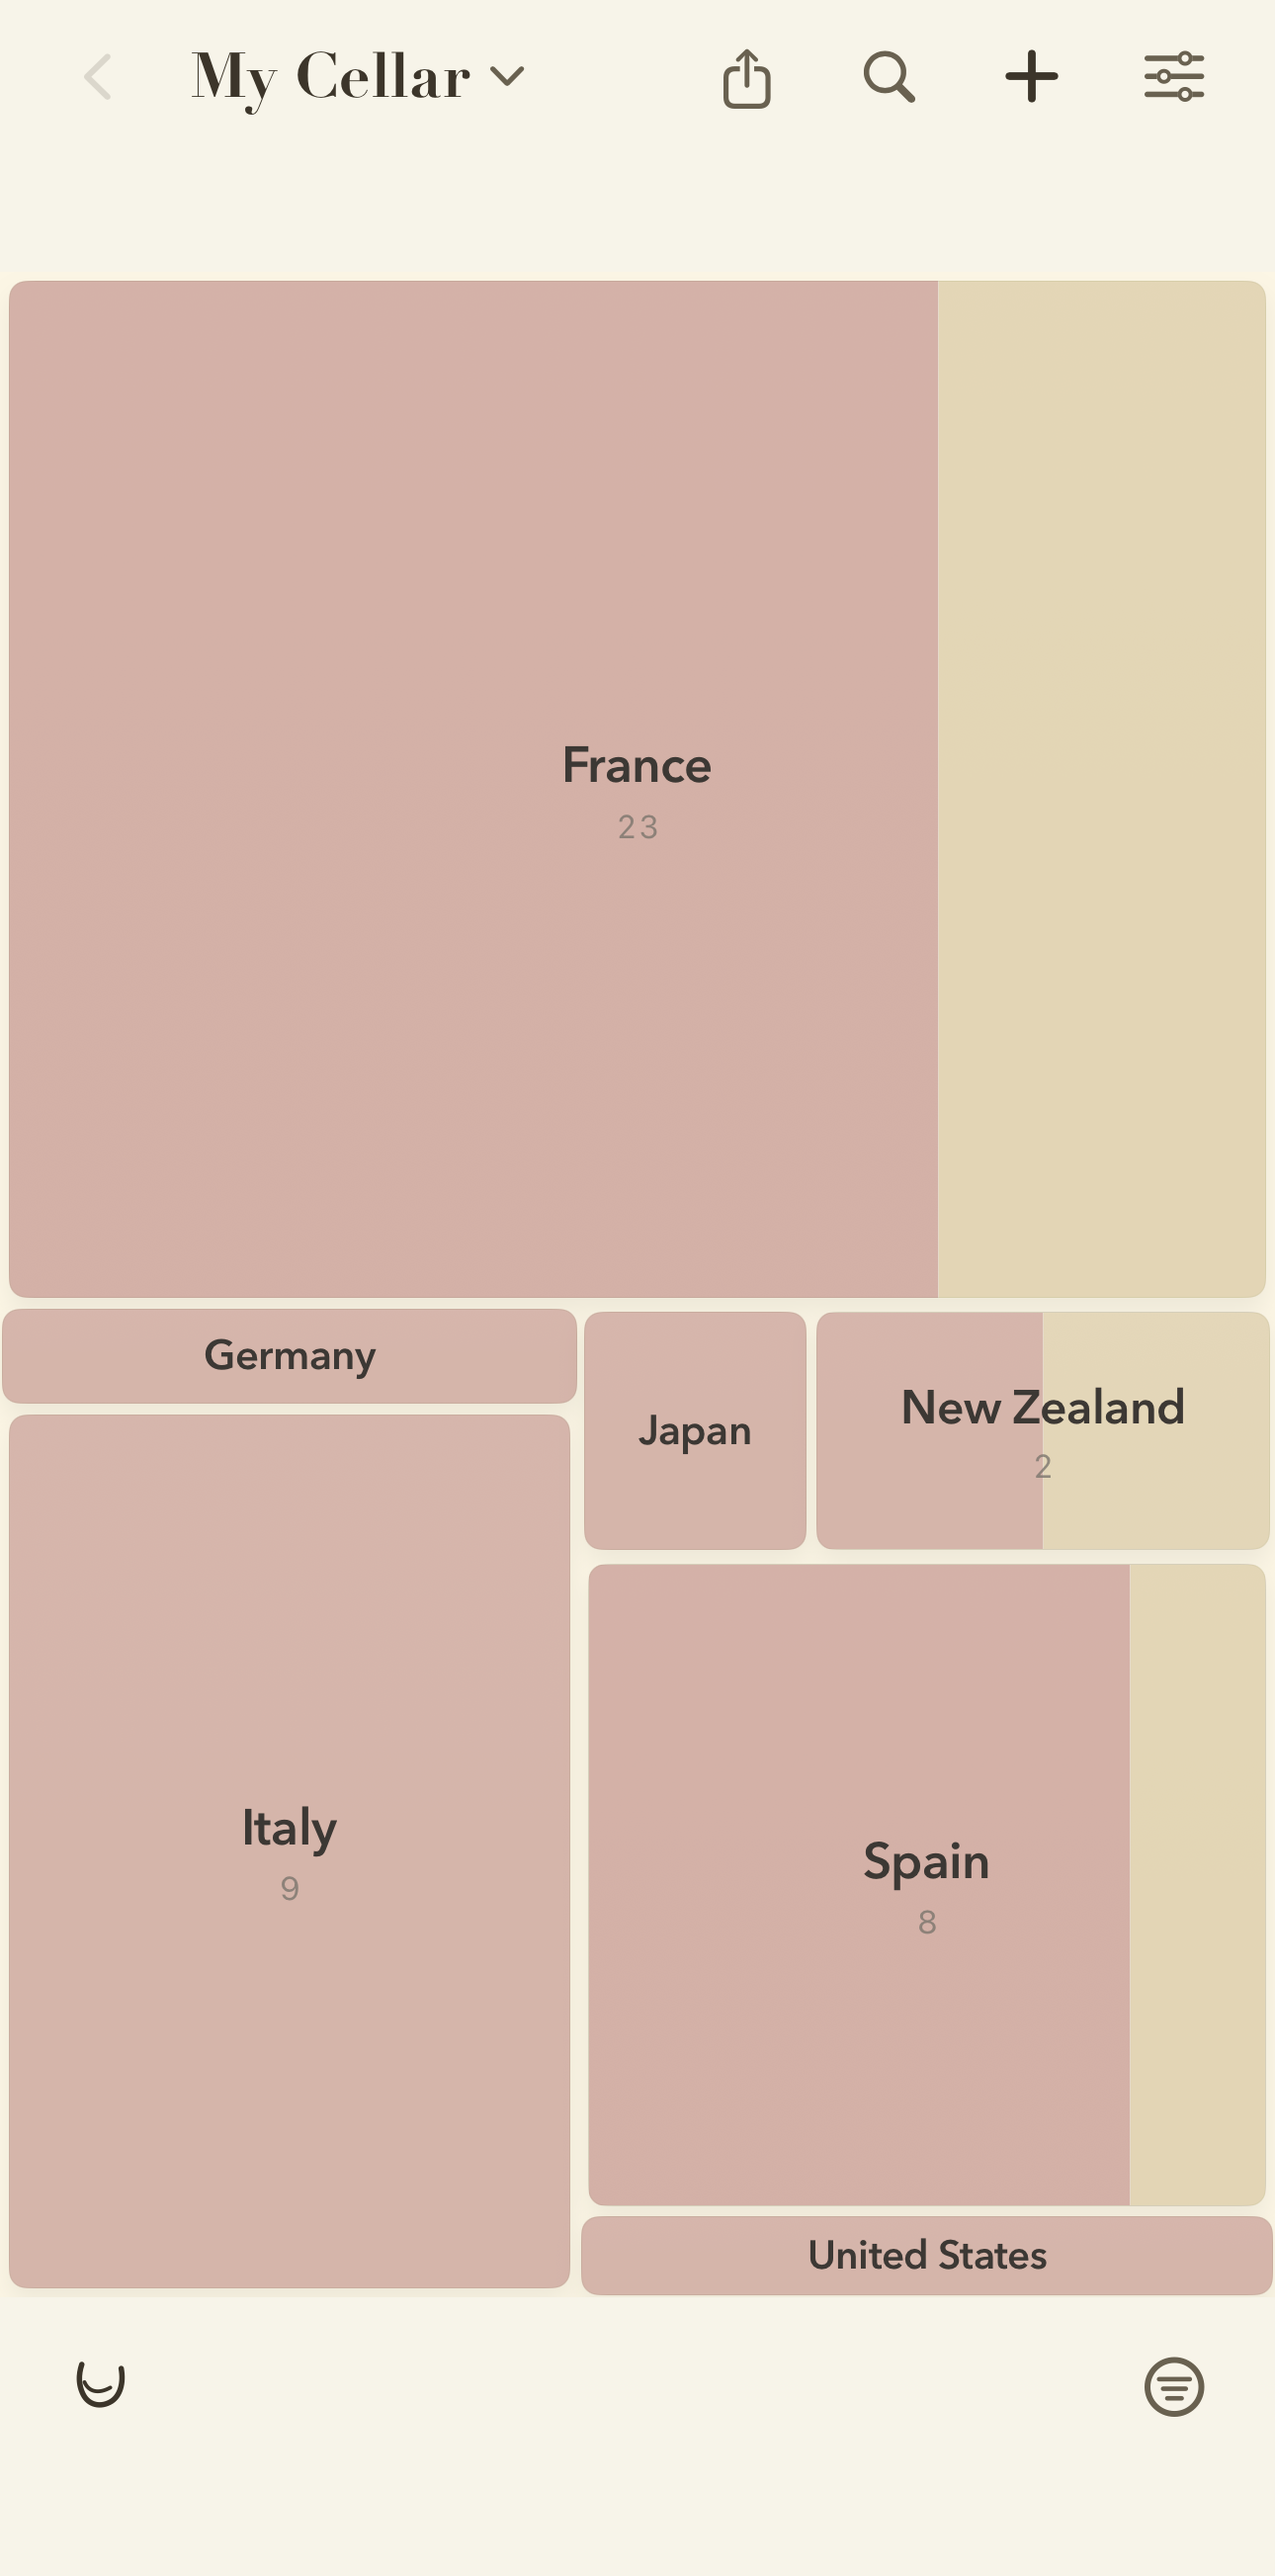
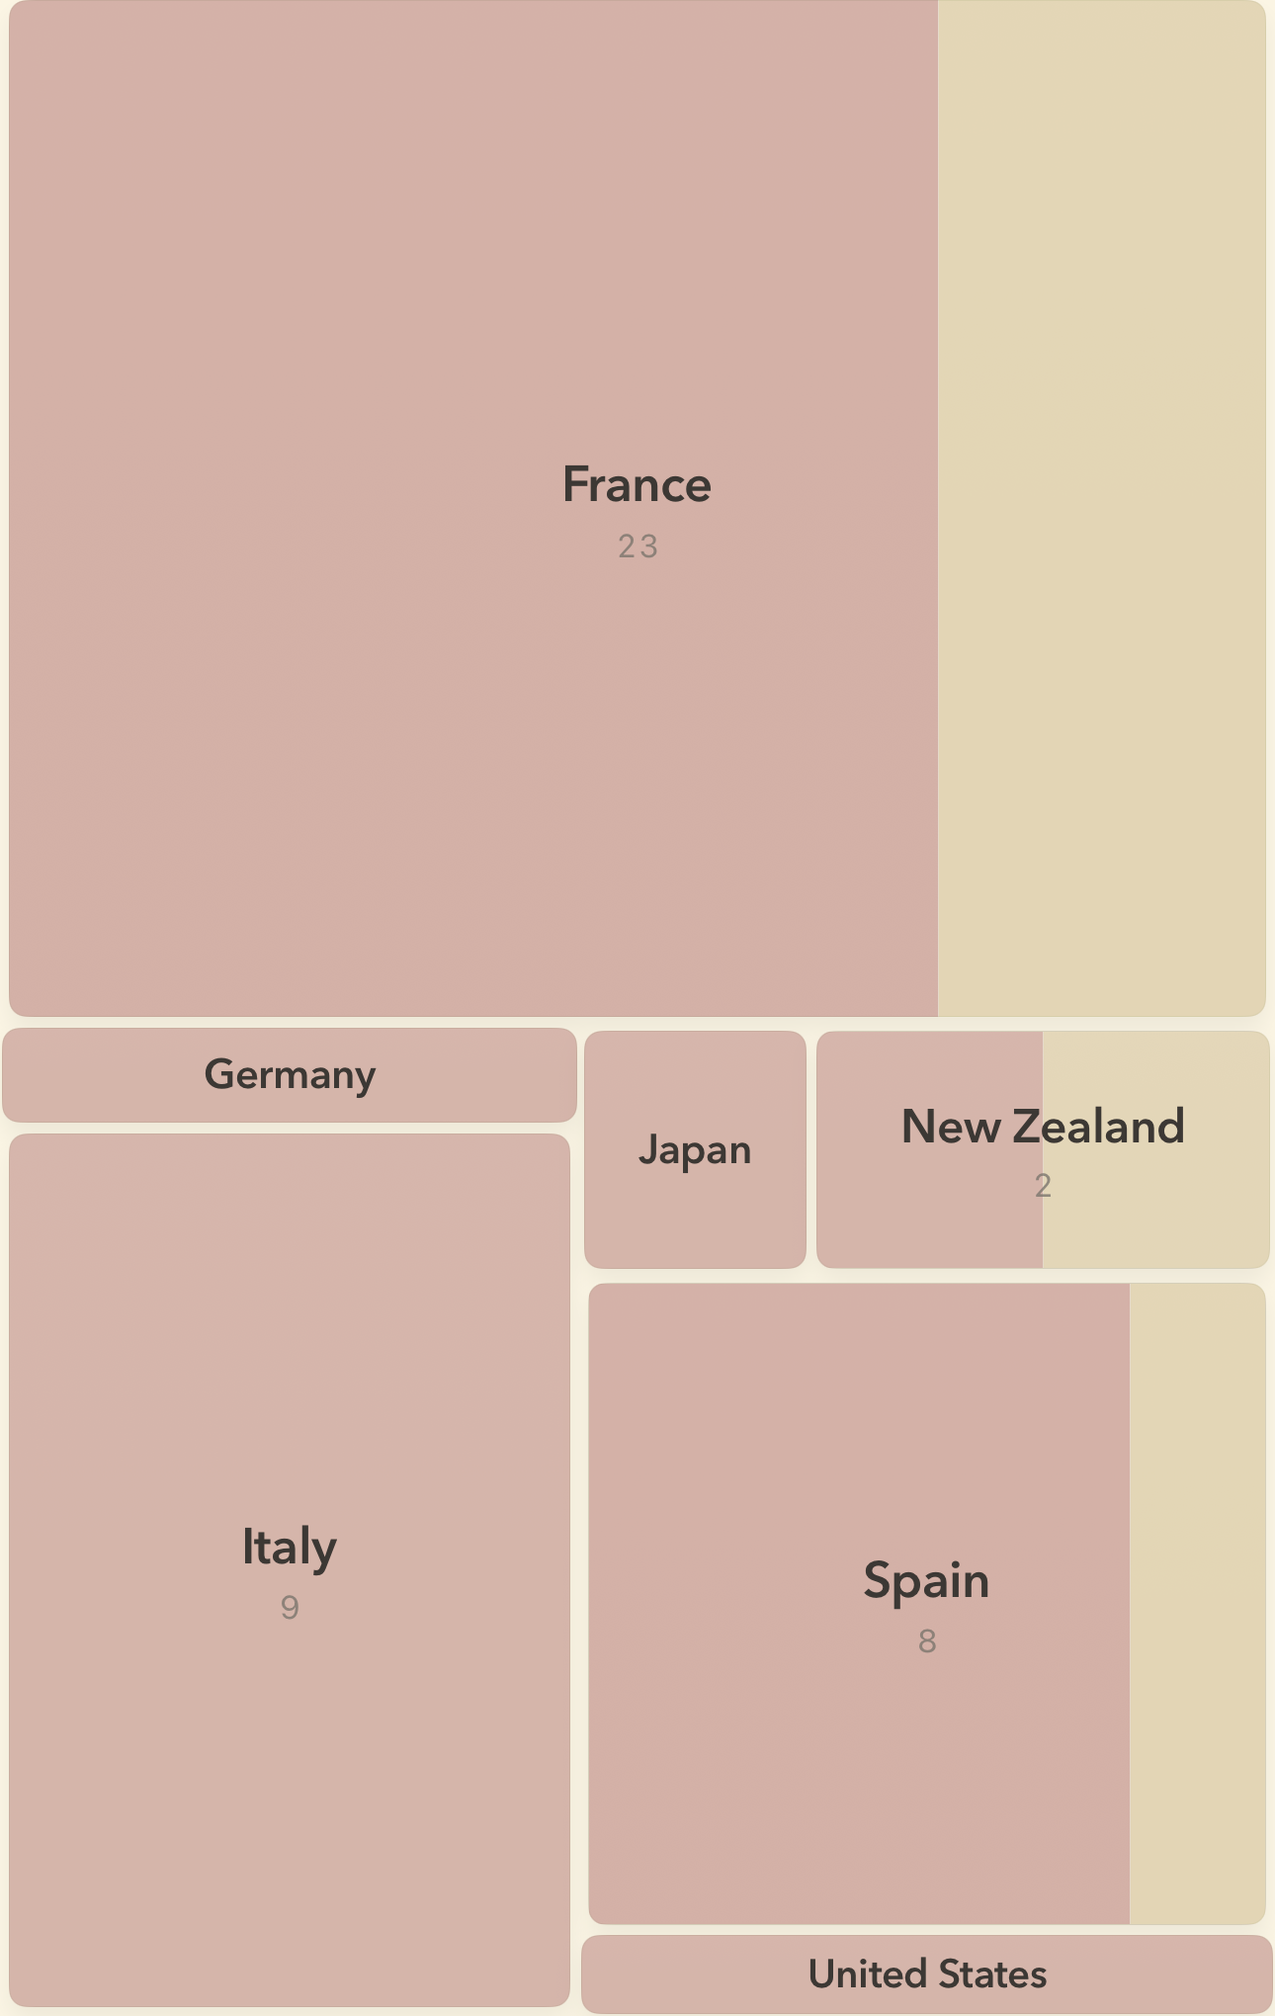
blog: Now in Your Hands in the editorial layout, like the February post
Drop type: journal so the post takes the 720px column, the floated
hero and the square memory-shot images. The cellar treemap, cropped
to the map itself, becomes the hero; the Atlas, Time Lens and Journal
screenshots become the three memory shots.

diff --git a/content/blog/now-in-your-hands.md b/content/blog/now-in-your-hands.md
@@ -1,8 +1,9 @@
 ---
 title: Now in Your Hands
 date: 2026-11-03
-type: journal
 description: vynr is now on the App Store—the foundation of a private wine atlas, cellar and journal, and the beginning of what comes next.
+heroImage: /journal/vynr-launch-cellar.png
+heroAlt: The cellar as a map
 tags:
   - launch
   - journal
@@ -18,8 +19,6 @@ Back in February, [I wrote](/blog/what-a-label-doesnt-say):
 Today, [vynr is available on the App Store](https://apps.apple.com/app/vynr/id6758237045).
 
 That is a small sentence for something that has occupied a very large part of my life.
-
-![vynr on an iPhone — the cellar opening into its places and wines](/journal/vynr-launch-cellar.png)
 
 ## What vynr became
 
